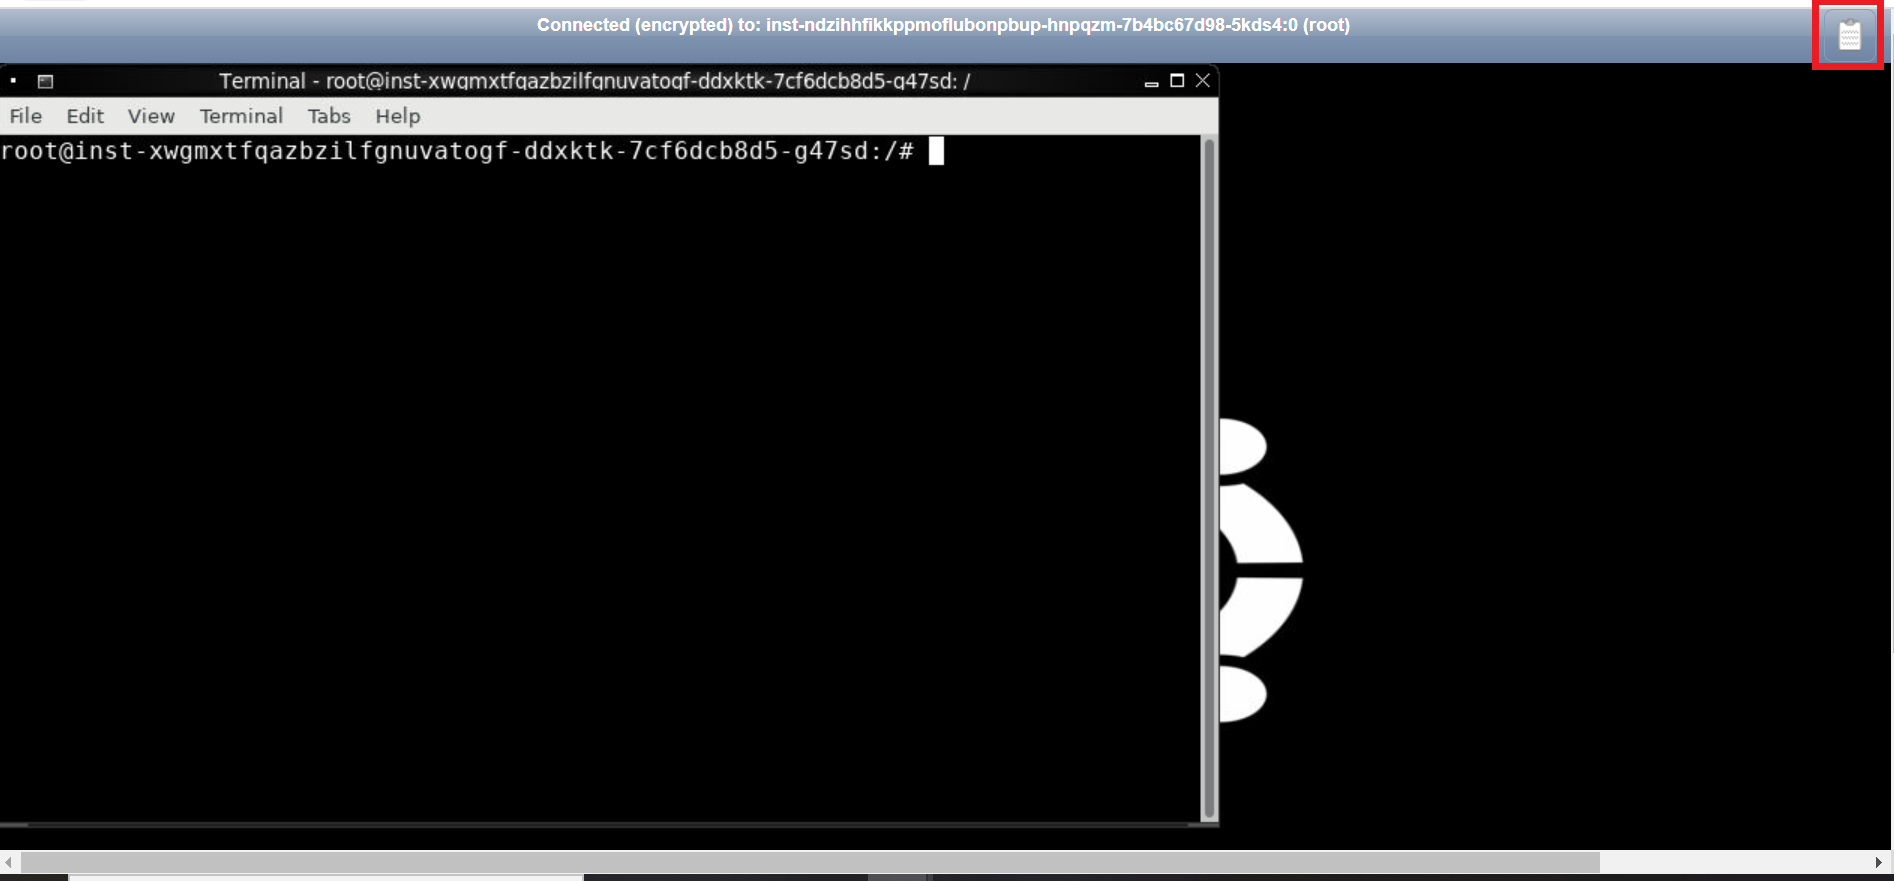
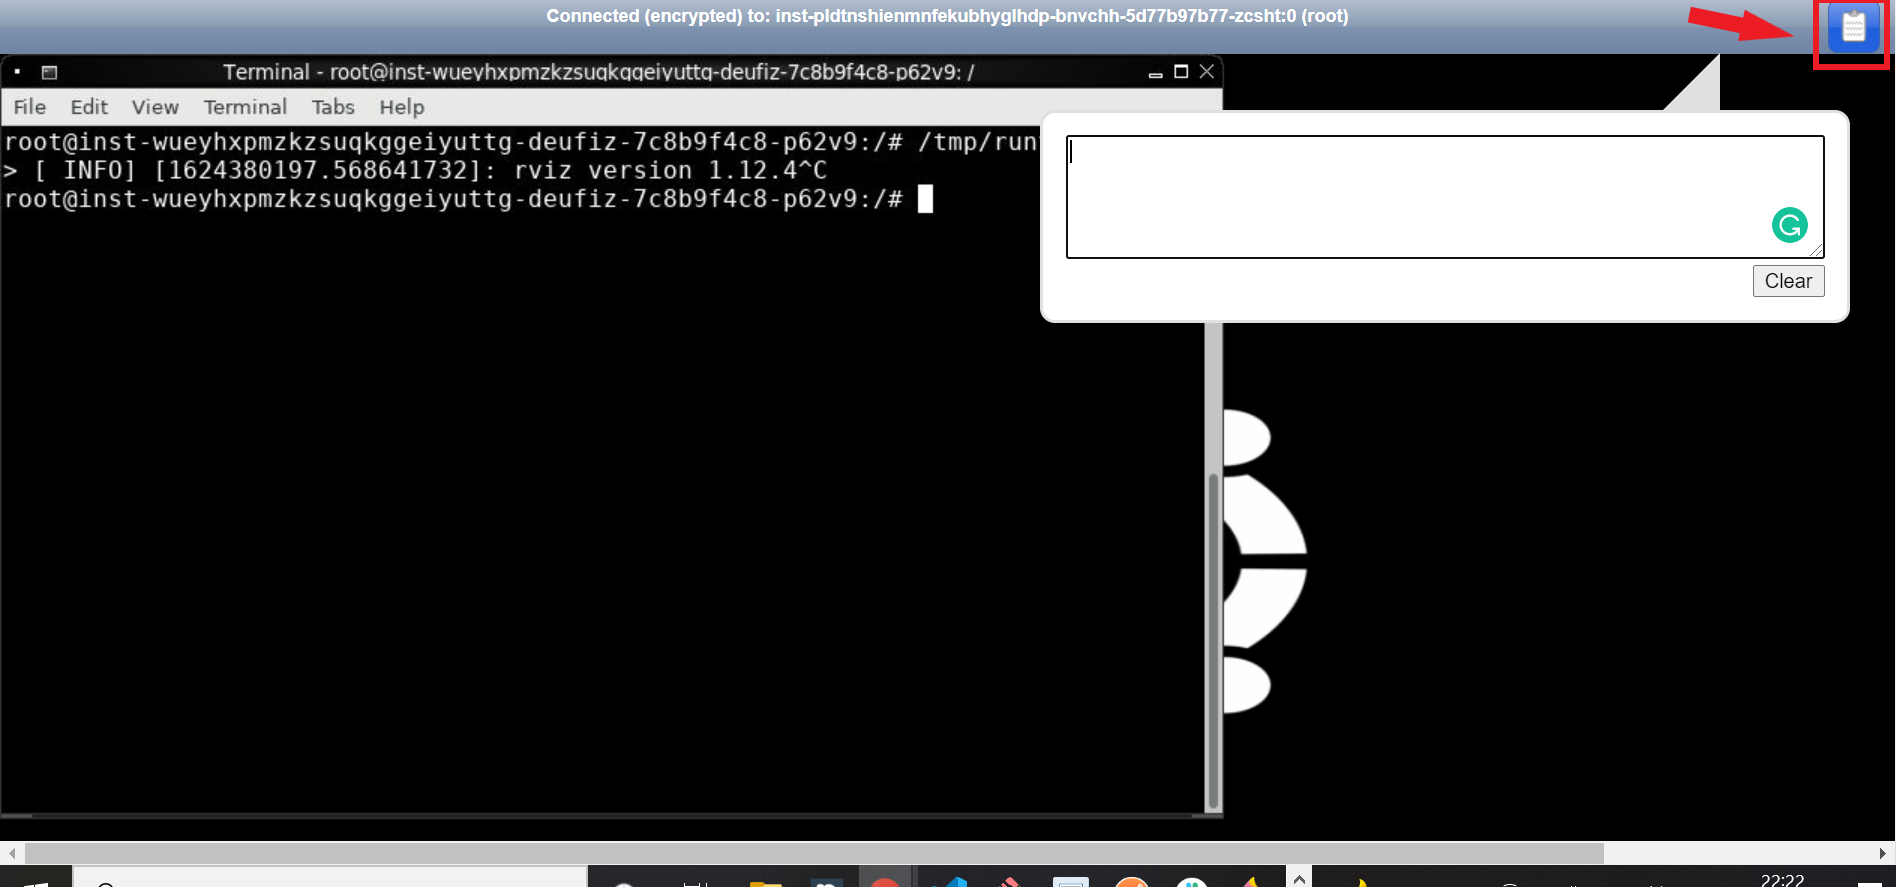
Fixed Hitesh's comment

Changed region(s): [[0.0, 0.0, 1.0, 1.0]]

diff --git a/hugo/content/5_deep-dives/52_software-development/529_debug-environment.md b/hugo/content/5_deep-dives/52_software-development/529_debug-environment.md
@@ -8,13 +8,13 @@ weight: 529
 tags:
     - Deep Dive
 ---
-The rapyuta.io provides you a debug environment to debug your application, modify your code, and provides ROS visualization tools. The debug environment also provides you a graphical Shell interface that you can use to run any custom command to open a graphical user interface.
+The rapyuta.io provides you a debug environment to debug your application, modify your code, and provides ROS visualization tools. The debug environment also provides you a  Shell interface that you can use to run any custom command to open a graphical user interface.
 
 The debug environment allows you to select the following capabilities.
 
 * **IDE**: A browser-based [VS Code editor](https://github.com/cdr/code-server) that uses the open-source tool, you can use the editor to modify your source code, and also provides you a terminal to push your changes to the source version control like git.
 
-* **Shell**: A GUI-based Shell that is useful for running any command or tool. You can execute any command with a custom variable, for example, rviz -d `rospack find custompkg`/rviz/path_planning.rviz. It can also be used to open RQT tool with custom parameters.
+* **Shell**: A GUI-based Shell that is useful for running any command or tool. You can execute any command with a custom variable, for example, ```rviz -d `rospack find custompkg`/rviz/path_planning.rviz```. It can also be used to open RQT tool with custom parameters.
 
 * **RVIZ**:  A 3D visualizing tool for sensor data and state information from ROS. It can capture various data from the sensors of a robot and play the captured data. For more information, [click here](http://wiki.ros.org/rviz).  This capability is applicable only for ROS component.
 
@@ -35,14 +35,26 @@ The debug environment uses 1 CPU core, and contributes to the cloud cost only fo
 
 The rapyuta.io platform supports connecting a debug environment with the following types of docker images.
 
-* Docker image built using [Catkin build recipe](/5_deep-dives/52_software-development/527_build-recipe/#catkin-recipe): Debug environment is fully supported for docker images build with rapyuta.io build. You can modify your code via IDE and run restart-deployment-executable command to restart your executable process.
+* Docker image built using [catkin build recipe](/5_deep-dives/52_software-development/527_build-recipe/#catkin-recipe): Debug environment is fully supported for docker images build with rapyuta.io build. You can modify your code via IDE and run `restart-deployment-executable` command to restart your executable process.
 
-* Docker image built using [docker recipe](/5_deep-dives/52_software-development/527_build-recipe/#docker-recipe) or [custom docker image](https://docs.docker.com/develop/develop-images/baseimages/): Ubuntu/Alpine based docker images are supported, please reach out to us if you have any other operating system, or you are facing any other issues. If you want to modify your code via IDE, and restart your application, make sure your process is running under [supervisor](http://supervisord.org/) or [s6-overlay](https://github.com/just-containers/s6-overlay) so that the container doesn’t die after you restart your executable. After that, you can use supervisor restart to restart your executable process.
+* Docker image built using [docker recipe](/5_deep-dives/52_software-development/527_build-recipe/#docker-recipe) or using [self created docker image](/5_deep-dives/52_software-development/525_package-internals#executables): Ubuntu/Alpine based docker images are supported, please reach out to us if you have any other operating system, or you are facing any other issues. If you want to modify your code via IDE, and restart your application, make sure your process is running under [supervisor](http://supervisord.org/) or [s6-overlay](https://github.com/just-containers/s6-overlay) so that the container doesn’t die after you restart your executable. After that, you can use supervisor restart to restart your executable process.
 
 {{%notice note%}}
 Since the deployment is already running, and if no persistent storage is attached to your deployment, updating or restarting your deployment will lead to losing your changes. So ensure that you push your changes to your source version control system carefully.
 
 {{%/notice%}}
+
+#### Connection Status of a Debug Environment
+
+The following table displays the various connection status of a debug environment.
+
+| Connection Status         | Description | Recommended action |
+| ------------------ | ----------- | ------------------ |
+| Pending | The debug environment creation is in queue. | Wait for some time . |
+| Processing | The debug environment creation is in progress. | Wait for some time to complete the process. |
+| Complete | The debug environment is connected successfully. | You can open the capabilities. |
+| Error | The debug environment was not able to connect to the linked deployment successfully. | Check for any errors and retry. If you are not sure about the error, raise a ticket. |
+| Stopped | The debug environment is deleted. | |
 
 ## Related Links
 * [Creating a  Debug Environment](/3_how-tos/33_software-development/336_create-debug-environment/)

diff --git a/hugo/content/3_how-tos/33_software-development/336_create-debug-environment.md b/hugo/content/3_how-tos/33_software-development/336_create-debug-environment.md
@@ -51,12 +51,16 @@ Same debug environment with different names throws an error  in the same project
     * **Rviz**
     * **RQT**
 
-5. Click **Connect**. It takes few minutes and the debug environment is created.
+5. Click **Connect**. It takes a few minutes to complete the connection process and if the connection status is in **Complete** state, the debug environment is created successfully. For more information about connection status, [click here](/5_deep-dives/52_software-development/529_debug-environment/#connection-status-of-a-debug-environment).
 
   {{%notice note%}}
   After the debug environment is created, copy the **Access Key** to a clipboard. You will need the access key as the password to access any capability of this debug environment.
 
   {{% /notice%}}
+
+  {{%notice info%}}
+  In case your cloud component contains multiple replicas, debug environment will always be connected to the first running replica.
+  {{%/notice%}}
 
 ### Debugging using Capabilities
 
@@ -83,8 +87,10 @@ To debug using the Shell capability, do the following.
 
 2. Click **Shell** as the capability.
 
-3. Enter the access key as the password when prompted. A GUI based Shell is displayed and allows you to run custom commands or open tools like RQT and RVIZ. 
-
+3. Enter the access key as the password when prompted. A GUI based Shell is displayed and allows you to run custom commands or open tools like RQT and RVIZ.
+{{%notice info%}}
+The shell interface also allows you to copy any text inside the shell. Click the clipboard icon to copy the text as displayed in the following image.
+{{%/notice%}}
 ![shell](/images/core-concepts/deployments/shell.png?classes=border,shadow&width=50pc)
 
 #### RQT

diff --git a/hugo/content/4_tutorials/42_advanced/create-debug-environment.md b/hugo/content/4_tutorials/42_advanced/create-debug-environment.md
@@ -62,8 +62,7 @@ Follow these steps to create a cloud routed network.
 3. Enter a name for routed network. For this tutorial, type `routed_network_1` as the routed network.
 4. Select **ROS Distro** as Melodic.
 5. Select the **Runtime** as **Cloud**.
-6. You will see a list of online device with docker runtime and AMD64 architecture in the drop-down list. 
-7. Click **CONTINUE**.
+6. Click **CONTINUE**.
 
 Deploying a routed network is identical to deploying any other package and has identical corresponding phases and errors.
 Once the routed network deployment succeeds, other ROS package deployments can bind to it and communicate.
@@ -120,7 +119,7 @@ To modify the code using IDE capability, do the following.
 
 ![IDE](/images/core-concepts/deployments/debug-ide.png?classes=border,shadow&width=50pc)  
 
-4. Edit the source code, navigate to the directory and click the file to edit your executable. For this tutorial, change the source code to `welcome to rapyuta.io` in the *talker.py* file.
+4.  By default, the IDE opens */* of your deployment, navigate to the file that you want to edit. In this case, * /opt/catkin_ws/src/talk/talker/talker.py* and change the source code to `welcome to rapyuta.io` in the *talker.py* file.
 
 5. Open a terminal from the IDE, click the hamburger menu in the VS code editor and click **Terminal > New Terminal**.
 
